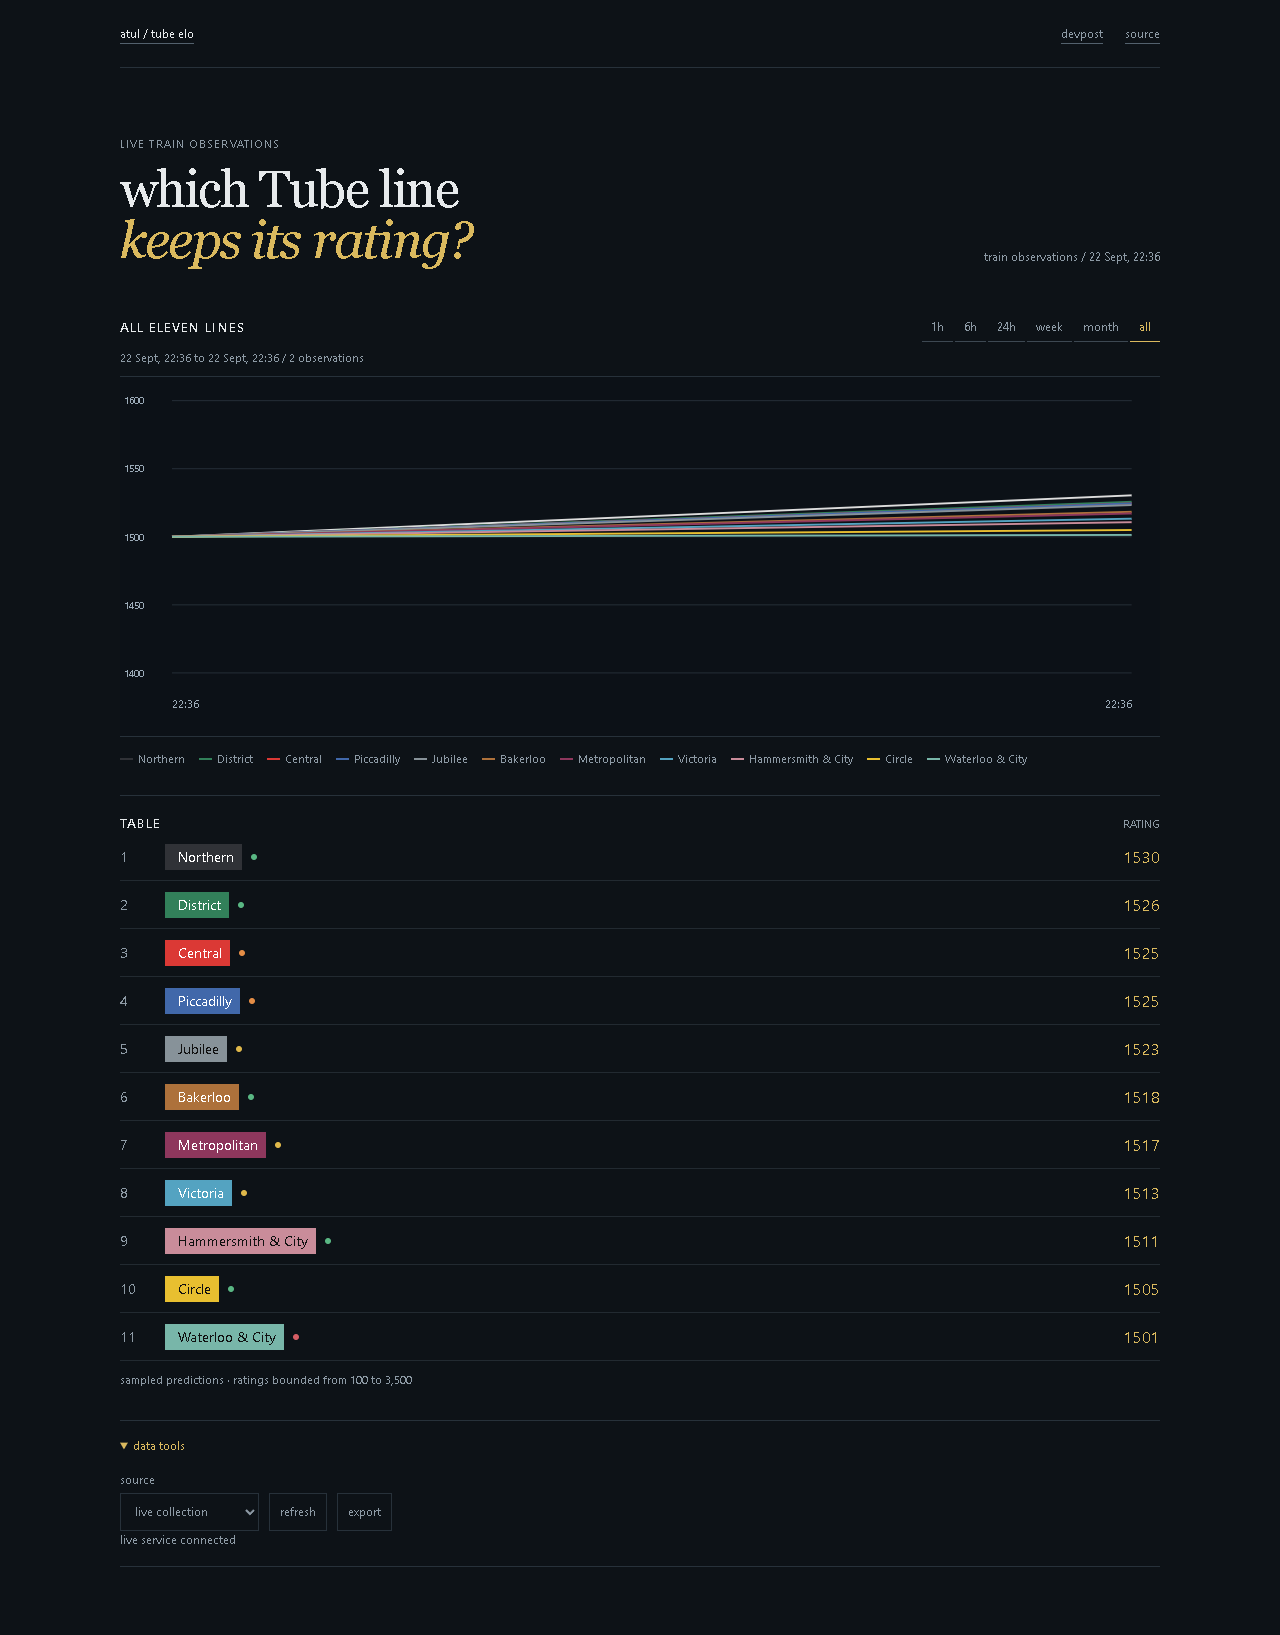
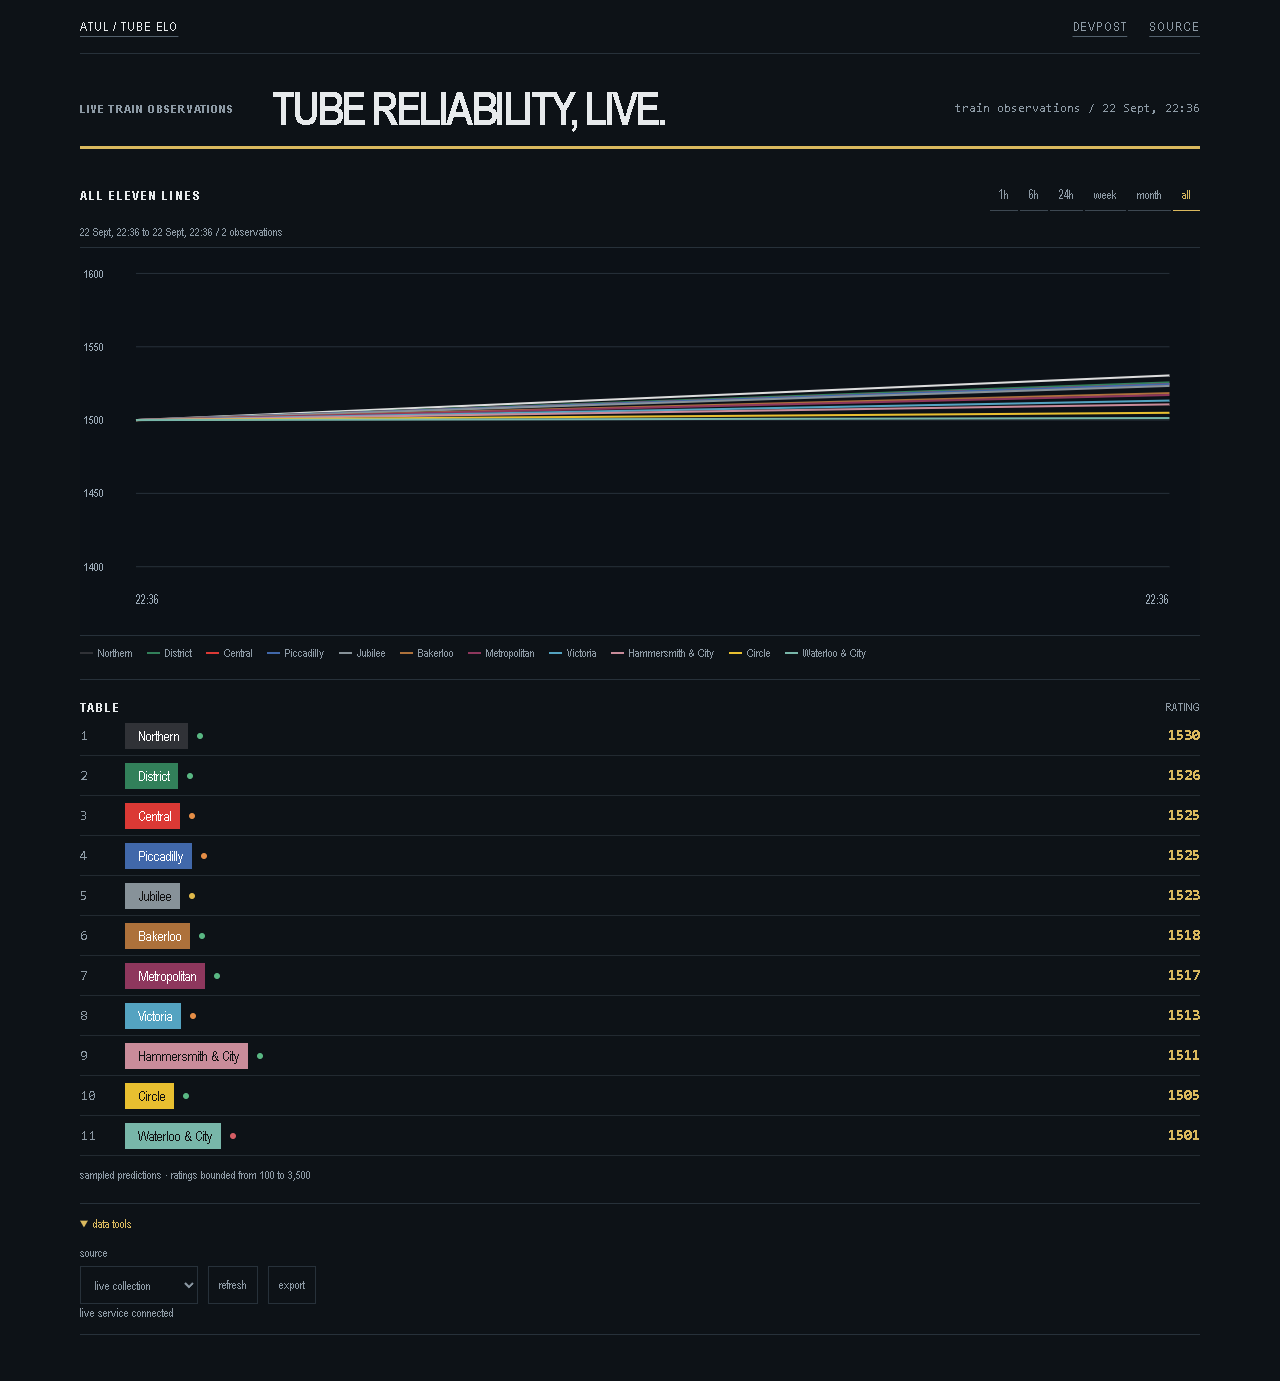
Give the live leaderboard a compact transit board identity

diff --git a/examples/portfolio/index.html b/examples/portfolio/index.html
@@ -1,7 +1,7 @@
-<!doctype html><html lang="en"><head><meta charset="utf-8"><meta name="viewport" content="width=device-width,initial-scale=1"><title>tube reliability leaderboard</title><link rel="stylesheet" href="style.css"></head><body>
+<!doctype html><html lang="en"><head><meta charset="utf-8"><meta name="viewport" content="width=device-width,initial-scale=1"><title>tube reliability leaderboard</title><link rel="stylesheet" href="style.css"><link rel="stylesheet" href="identity.css"></head><body>
 <header><a href="https://lolstar123.github.io/just-a-little-further/">atul / tube elo</a><nav><a href="https://devpost.com/software/tfl-elo-tracker">devpost</a><a href="https://github.com/LolStar123/tfl-reliability">source</a></nav></header>
 <main>
-<section class="hero"><p>live train observations</p><h1>which Tube line<br><em>keeps its rating?</em></h1><span id="updated">loading…</span></section>
+<section class="hero"><p>live train observations</p><h1>tube reliability, live.</h1><span id="updated">loading…</span></section>
 <section id="history" class="view">
     <div class="chart-head"><h2>all eleven lines</h2><div class="timeframes" role="group" aria-label="Chart timeframe"><button data-hours="1">1h</button><button data-hours="6">6h</button><button data-hours="24" aria-pressed="true">24h</button><button data-hours="168">week</button><button data-hours="720">month</button><button data-hours="0">all</button></div></div>
     <p class="range-summary" aria-live="polite"></p>

diff --git a/examples/portfolio/identity.css b/examples/portfolio/identity.css
@@ -1,0 +1,2 @@
+/* departure board: compressed, numerical, built around the live lines */
+body{font-family:"Arial Narrow","Segoe UI",Arial,sans-serif}header,main{width:min(1120px,calc(100% - 48px))}header{height:54px;text-transform:uppercase;letter-spacing:.08em}main{padding:34px 0 46px}.hero{display:grid;grid-template-columns:170px minmax(0,1fr) auto;align-items:center;gap:22px;margin:0 0 22px;padding-bottom:17px;border-bottom:3px solid var(--accent)}.hero p{grid-column:auto;margin:0;font-weight:700}.hero h1{font:800 clamp(30px,4vw,46px)/.9 "Arial Narrow","Segoe UI",sans-serif;letter-spacing:-.055em;text-transform:uppercase}.hero h1 br{display:none}.hero>span{font-family:ui-monospace,Consolas,monospace}.chart-head{padding:9px 0}.chart-head h2,.board-title h2{font-weight:800}.range-summary{margin:4px 0 7px}#history-chart{margin-top:4px}#line-toggles{padding:9px 0 18px}.line{min-height:40px;padding:4px 0}.rank{font-family:ui-monospace,Consolas,monospace}.elo{font:700 15px/1 ui-monospace,Consolas,monospace}.tools{margin-top:20px;padding-bottom:12px}.tools summary{padding:11px 0}@media(max-width:650px){header,main{width:calc(100% - 30px)}main{padding:27px 0 36px}.hero{display:block;margin-bottom:17px}.hero p{margin-bottom:8px}.hero h1{font-size:36px}.hero>span{margin-top:12px}.timeframes{max-width:72%}}
